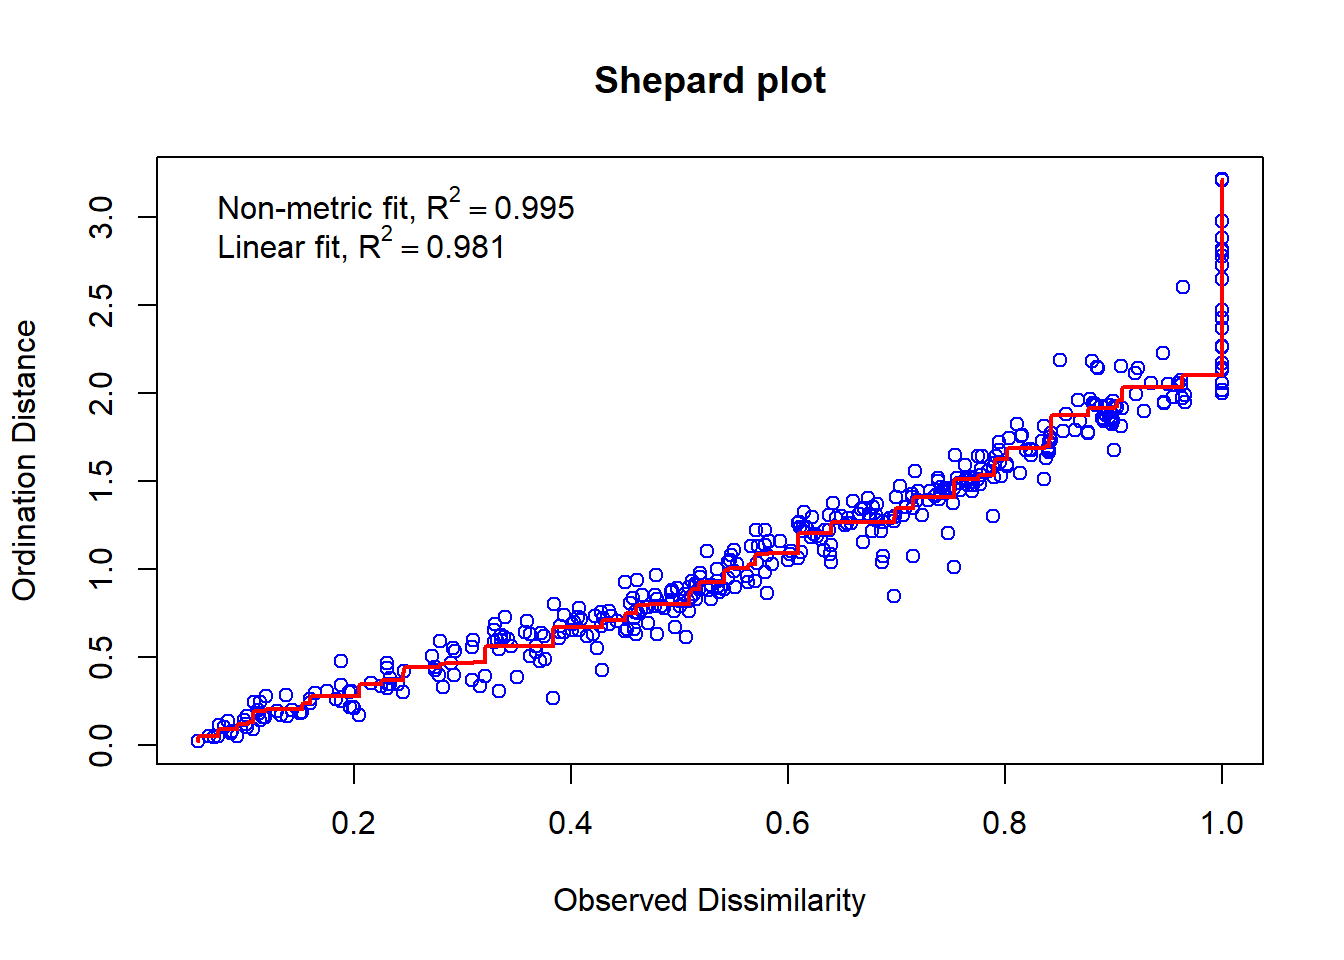
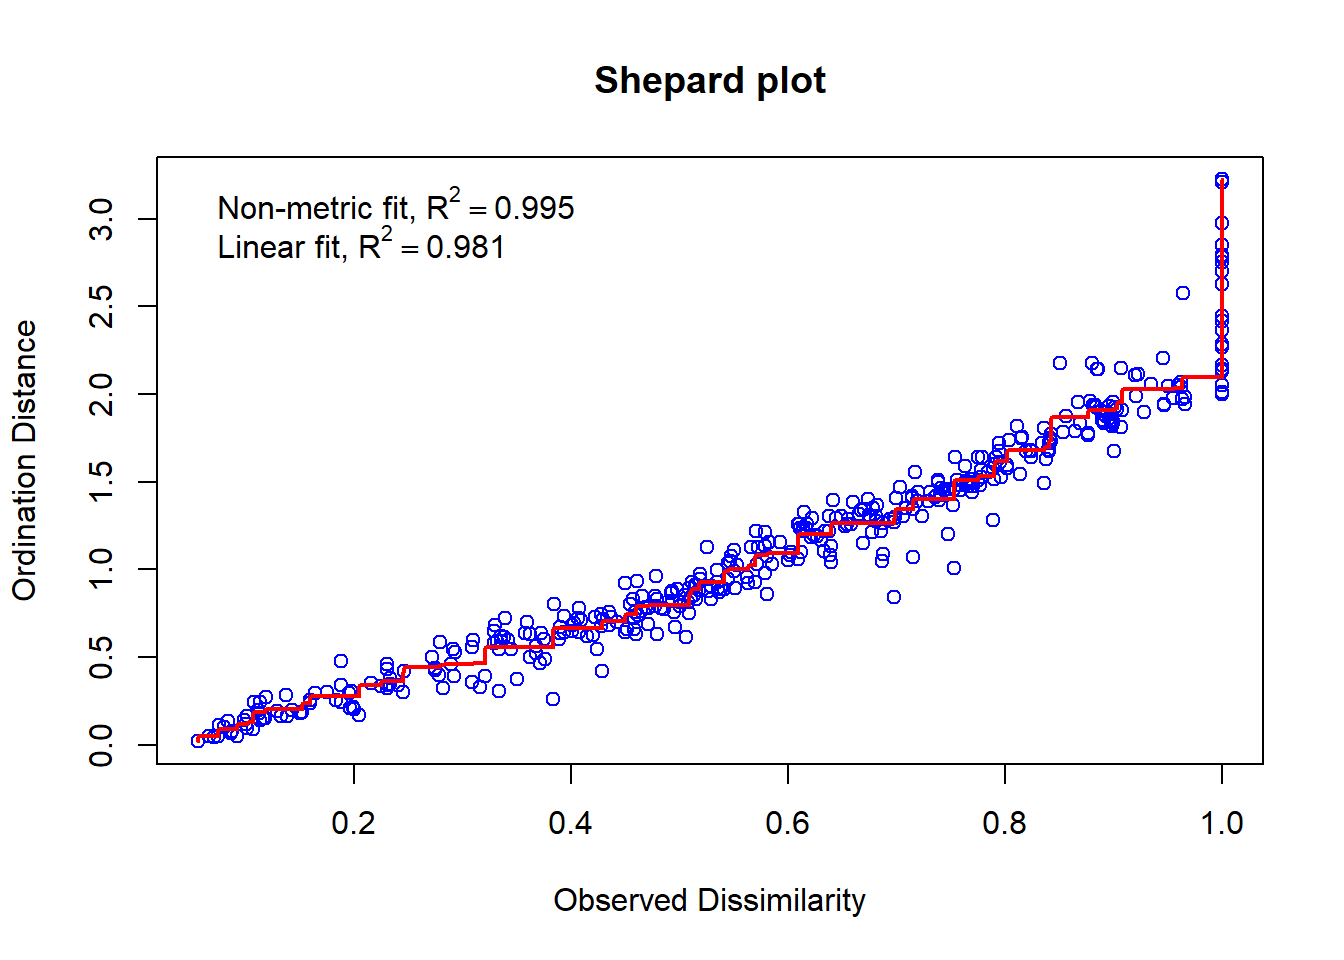
minor

diff --git a/Ordination2023.html b/Ordination2023.html
@@ -11,7 +11,7 @@
 
 <meta name="author" content="Kierstin Acuna &amp; Martin Genova" />
 
-<meta name="date" content="2023-11-29" />
+<meta name="date" content="2023-12-03" />
 
 <title>Ordination Lecture</title>
 
@@ -435,6 +435,9 @@ div.tocify {
     <li>
       <a href="Ordination2023.html">Ordination</a>
     </li>
+    <li>
+      <a href="OrdinationLab2023.html">Ordination (lab)</a>
+    </li>
   </ul>
 </li>
 <li class="dropdown">
@@ -472,7 +475,7 @@ div.tocify {
 
 <h1 class="title toc-ignore">Ordination Lecture</h1>
 <h4 class="author">Kierstin Acuna &amp; Martin Genova</h4>
-<h4 class="date">2023-11-29</h4>
+<h4 class="date">2023-12-03</h4>
 
 </div>
 
@@ -1555,38 +1558,37 @@ spe.nmds &lt;- vegan::metaMDS(spe.h,
                            autotransform = F # indicates that transformation has already been applied to the data
                            )</code></pre>
 <pre><code>## Run 0 stress 0.06746136 
-## Run 1 stress 0.1212474 
-## Run 2 stress 0.07528558 
-## Run 3 stress 0.0957706 
-## Run 4 stress 0.07528548 
-## Run 5 stress 0.06745206 
+## Run 1 stress 0.1041399 
+## Run 2 stress 0.07528546 
+## Run 3 stress 0.09577004 
+## Run 4 stress 0.1067554 
+## Run 5 stress 0.06742369 
 ## ... New best solution
-## ... Procrustes: rmse 0.000803016  max resid 0.003784747 
+## ... Procrustes: rmse 0.008164906  max resid 0.03871544 
+## Run 6 stress 0.06747069 
+## ... Procrustes: rmse 0.009842425  max resid 0.04664717 
+## Run 7 stress 0.1088367 
+## Run 8 stress 0.1024774 
+## Run 9 stress 0.1016986 
+## Run 10 stress 0.1016353 
+## Run 11 stress 0.06742568 
+## ... Procrustes: rmse 0.002743475  max resid 0.01299384 
+## Run 12 stress 0.06747496 
+## ... Procrustes: rmse 0.009859005  max resid 0.04671791 
+## Run 13 stress 0.06746543 
+## ... Procrustes: rmse 0.009227896  max resid 0.04372707 
+## Run 14 stress 0.1140079 
+## Run 15 stress 0.07528554 
+## Run 16 stress 0.1016351 
+## Run 17 stress 0.06742468 
+## ... Procrustes: rmse 0.002359153  max resid 0.01117365 
+## Run 18 stress 0.0674791 
+## ... Procrustes: rmse 0.01080025  max resid 0.0512008 
+## Run 19 stress 0.09577054 
+## Run 20 stress 0.06742502 
+## ... Procrustes: rmse 0.0005874811  max resid 0.002783705 
 ## ... Similar to previous best
-## Run 6 stress 0.1153488 
-## Run 7 stress 0.07528546 
-## Run 8 stress 0.1024779 
-## Run 9 stress 0.06744476 
-## ... New best solution
-## ... Procrustes: rmse 0.0008659577  max resid 0.00409548 
-## ... Similar to previous best
-## Run 10 stress 0.07528544 
-## Run 11 stress 0.1066087 
-## Run 12 stress 0.06746442 
-## ... Procrustes: rmse 0.002617066  max resid 0.01241861 
-## Run 13 stress 0.09577023 
-## Run 14 stress 0.1057719 
-## Run 15 stress 0.06742583 
-## ... New best solution
-## ... Procrustes: rmse 0.003715172  max resid 0.01761232 
-## Run 16 stress 0.07528547 
-## Run 17 stress 0.1059219 
-## Run 18 stress 0.07528543 
-## Run 19 stress 0.08323599 
-## Run 20 stress 0.1016353 
-## *** Best solution was not repeated -- monoMDS stopping criteria:
-##      3: no. of iterations &gt;= maxit
-##     17: stress ratio &gt; sratmax</code></pre>
+## *** Best solution repeated 1 times</code></pre>
 <p>When we run an NMDS, objects are first positioned in a random
 starting condition in the requested number of dimensions (default is 2).
 It then iteratively moves those objects and then calculates the
@@ -1605,7 +1607,7 @@ the specified number of NMDS dimensions. &lt;0.1 is great, and &lt;0.05
 is excellent, except that is rare.</p>
 <pre class="r"><code># Stress score
 spe.nmds$stress # A stress score &lt;0.1. Great!</code></pre>
-<pre><code>## [1] 0.06742583</code></pre>
+<pre><code>## [1] 0.06742369</code></pre>
 <p>We can do a visual check of goodness-of-fit using a Shepard’s
 plot.</p>
 <pre class="r"><code># Shepard Plot
